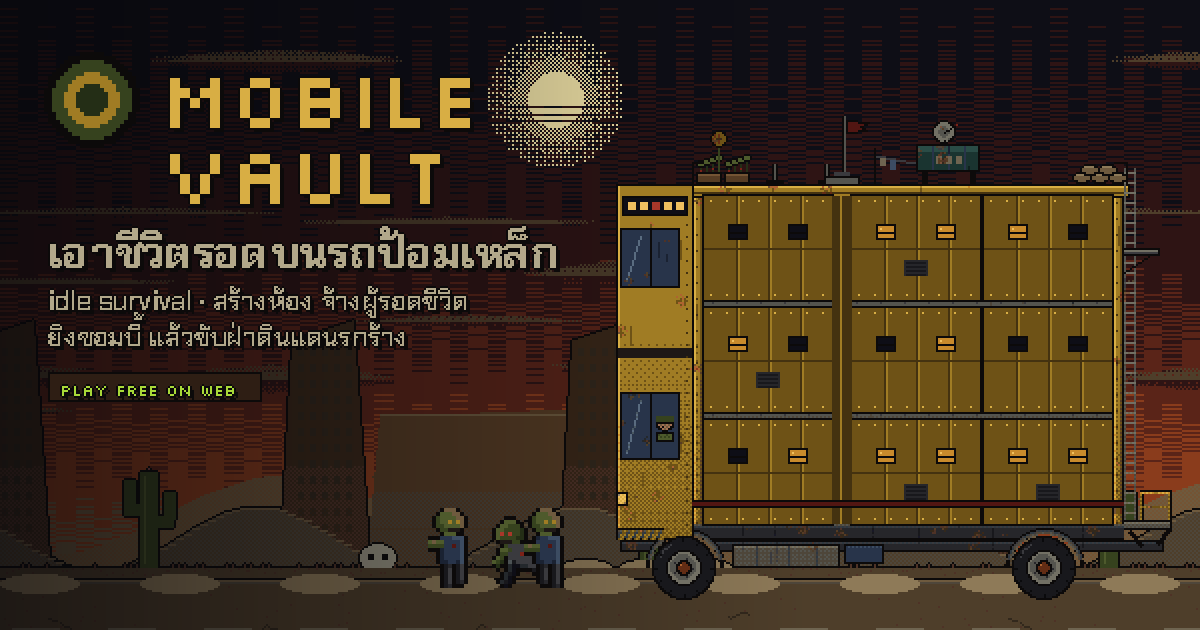
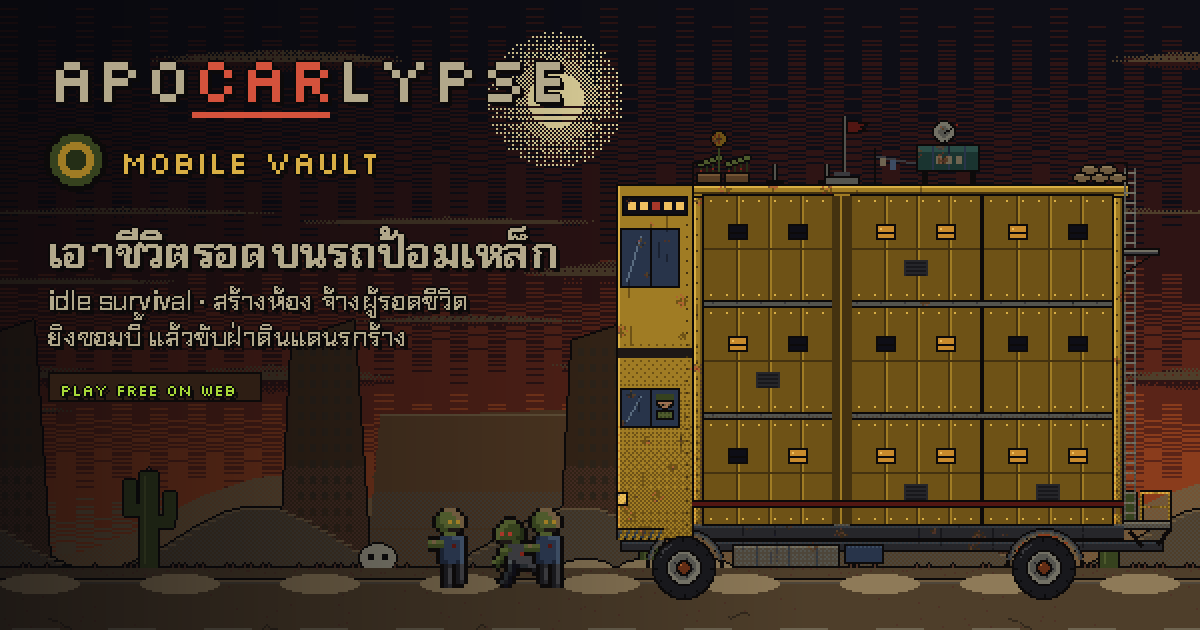
Rename game to Apocarlypse: Mobile Vault
Player-facing title only: project name, title/About logo (APO-CAR-LYPSE with the
CAR pun in red), BuildInfo.GAME_NAME, web title + og/twitter tags, og-image, README.
Repo, Vercel domain, save keys and Supabase keep the mobile-vault name.

Claude-Session: https://claude.ai/code/session_01VhQATVbLLiYuM3vv5gRYiJ

Changed region(s): [[0.0308, 0.0905, 0.4933, 0.3317], [0.4933, 0.6032, 0.5858, 0.754]]

diff --git a/web/index.html b/web/index.html
@@ -3,7 +3,7 @@
 	<head>
 		<meta charset="utf-8">
 		<meta name="viewport" content="width=device-width, user-scalable=no, initial-scale=1.0">
-		<title>Mobile Vault</title>
+		<title>Apocarlypse: Mobile Vault</title>
 		<style>
 html, body, #canvas {
 	margin: 0;

diff --git a/tools/og_image.py b/tools/og_image.py
@@ -22,6 +22,7 @@ AMBER = (216, 174, 68)           # yellow3: hazard paint / lamp amber
 BONE = (178, 168, 138)           # cream3
 SOOT = (12, 10, 10)              # ol0
 TOXIC = (168, 216, 56)           # toxic3
+BLOOD = (212, 82, 60)            # UIKit.C_RED: the CAR in the logo
 
 
 def layer(name):
@@ -86,15 +87,23 @@ def main():
 
     d = ImageDraw.Draw(img)
     d.fontmode = "1"                                  # no anti-aliasing: hard pixel edges
-    title = ImageFont.truetype(os.path.join(FONTS, "Silkscreen-Regular.ttf"), 40)
+    title = ImageFont.truetype(os.path.join(FONTS, "Silkscreen-Regular.ttf"), 32)
+    sub = ImageFont.truetype(os.path.join(FONTS, "Silkscreen-Regular.ttf"), 16)
     small = ImageFont.truetype(os.path.join(FONTS, "Silkscreen-Regular.ttf"), 8)
     thai = ImageFont.truetype(os.path.join(FONTS, "ChakraPetch-Bold.ttf"), 22)
     thai_s = ImageFont.truetype(os.path.join(FONTS, "ChakraPetch-SemiBold.ttf"), 13)
 
-    emblem = get("emblem").resize((48, 48), Image.NEAREST)
-    img.alpha_composite(emblem, (22, 26))
-    text(d, (80, 22), "MOBILE", title, AMBER)
-    text(d, (80, 60), "VAULT", title, AMBER)
+    # logo: APO|CAR|LYPSE, the CAR pun lit up in blood red with a bar under it (same as UIKit.logo)
+    x = 24
+    for part, col in (("APO", BONE), ("CAR", BLOOD), ("LYPSE", BONE)):
+        text(d, (x, 18), part, title, col)
+        w = int(d.textlength(part, font=title))
+        if part == "CAR":
+            d.rectangle([x, 56, x + w - 4, 58], fill=BLOOD)
+        x += w
+    emblem = get("emblem").resize((32, 32), Image.NEAREST)
+    img.alpha_composite(emblem, (22, 64))
+    text(d, (60, 70), "MOBILE VAULT", sub, AMBER)
     text(d, (24, 112), "เอาชีวิตรอดบนรถป้อมเหล็ก", thai, BONE)
     text(d, (24, 142), "idle survival · สร้างห้อง จ้างผู้รอดชีวิต", thai_s, BONE)
     text(d, (24, 160), "ยิงซอมบี้ แล้วขับฝ่าดินแดนรกร้าง", thai_s, BONE)

diff --git a/docs/PROJECT_CONTEXT.md b/docs/PROJECT_CONTEXT.md
@@ -1,4 +1,4 @@
-# Mobile Vault — Project Context (handoff)
+# Apocarlypse: Mobile Vault — Project Context (handoff)
 
 > เอกสารนี้สรุปทุกอย่างที่ต้องรู้เพื่อทำงานต่อกับเกม Mobile Vault ในโปรเจกต์ใหม่
 > สถานะ ณ 22 ต.ค. 2026 · เวอร์ชันเกม **v4.2** · commit ล่าสุด `dd19fc1` บน `main`
@@ -7,7 +7,7 @@
 
 ## 1. ภาพรวม
 
-**Mobile Vault — Project: Survival** คือเกม idle survival / management บน **Mobile Web (HTML5)**
+**Apocarlypse: Mobile Vault** (เดิมชื่อ Mobile Vault — Project: Survival) คือเกม idle survival / management บน **Mobile Web (HTML5)**
 ผู้เล่นคุมรถบ้านหุ้มเกราะที่วิ่งข้ามโลกล่มสลาย ภายในรถแบ่งเป็นห้องแบบผ่าซีก (ฟีลเกม Fallout Shelter)
 
 ระบบหลักในเกม:

diff --git a/README.md b/README.md
@@ -1,4 +1,6 @@
-# MOBILE VAULT — Project: Survival
+# APOCARLYPSE: Mobile Vault
+
+> **Apo-CAR-lypse** = car + apocalypse. The game was called "Mobile Vault" up to v4.6; the vehicle is still the Mobile Vault, and the repo, Vercel domain, save keys and Supabase project keep the `mobile-vault` name. The player-facing title lives in `BuildInfo.GAME_NAME`, `project.godot` `config/name`, the Web preset `html/head_include` (og/twitter tags) and `UIKit.logo()` (title screen + Settings › About).
 
 Idle survival / management game in a giant roaming RV ("Mobile Vault") — 2D pixel art, built for **Mobile Web (HTML5)** with **Godot 4.7.2-stable** + GDScript.
 
